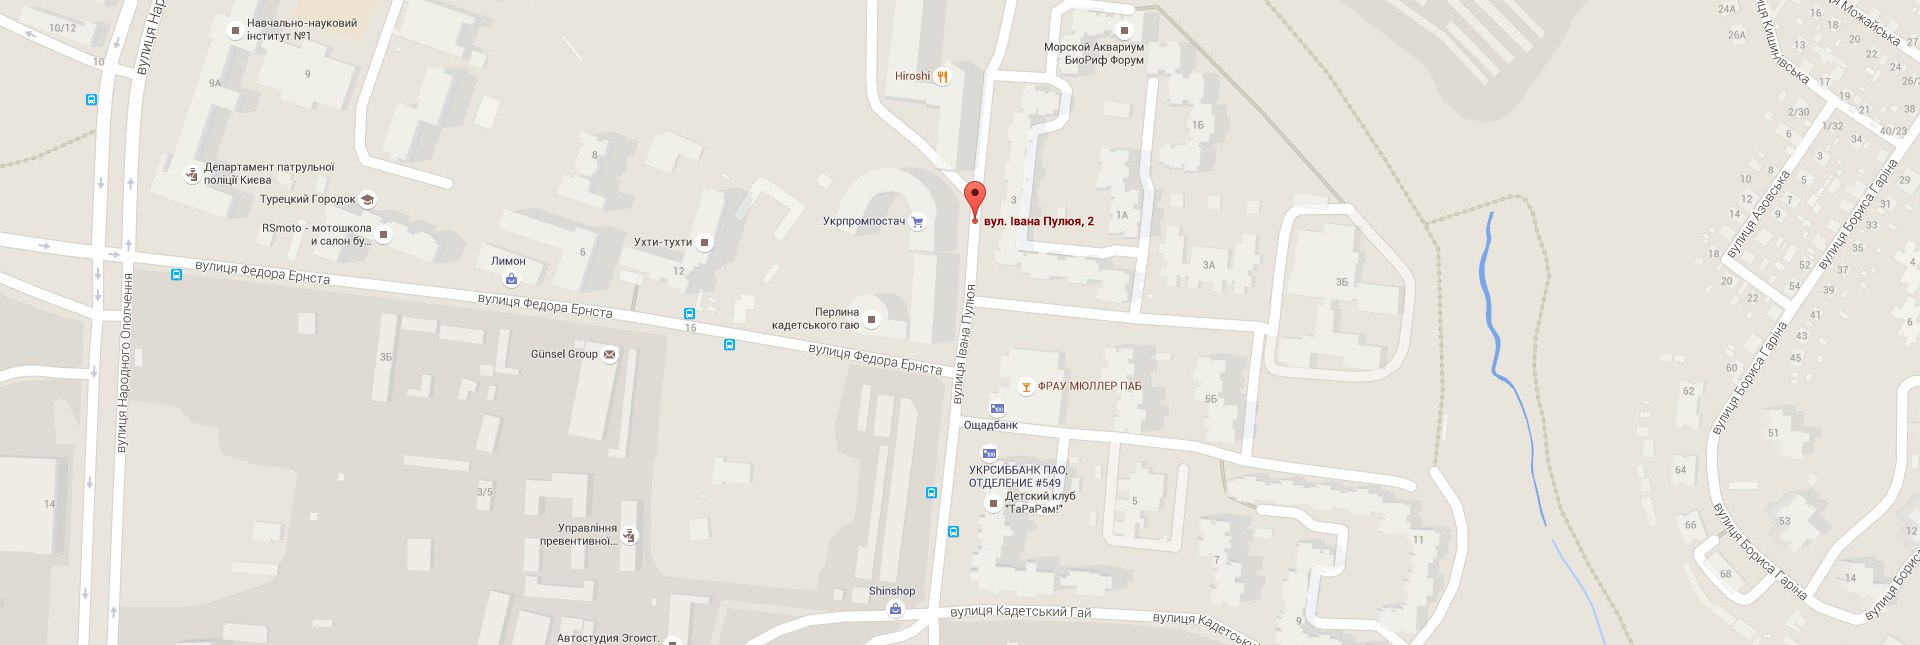
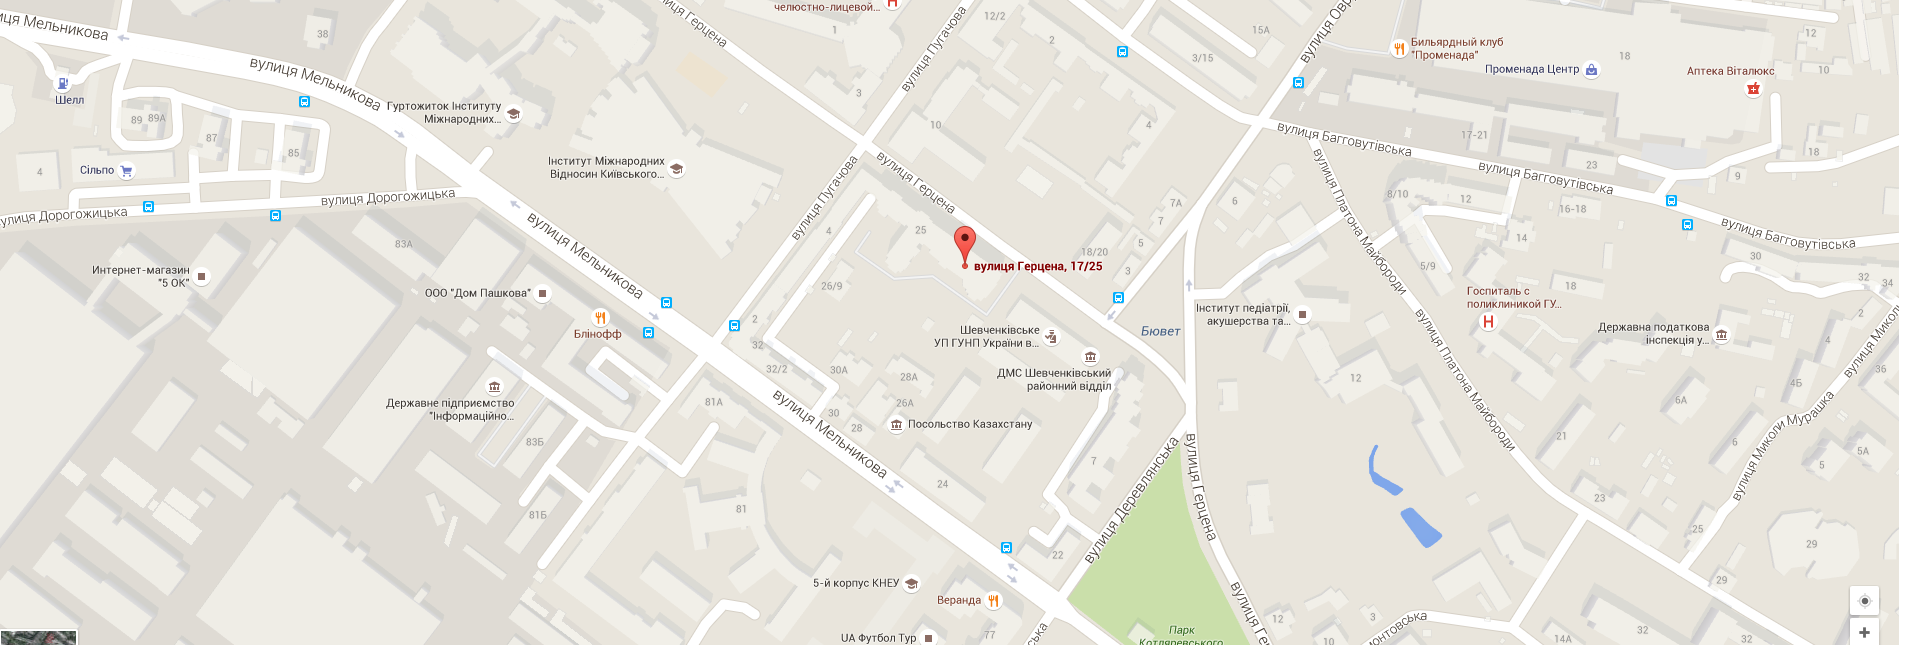
.

diff --git a/frontend/web/css/style.css b/frontend/web/css/style.css
@@ -672,12 +672,21 @@ header h2 {
   height: 11px;
   background-position: -10px -10px;
 }
+.about-us .sprite-contact_in {
+  width: 16px;
+  height: 19px;
+  background-image: url(/img/insta.png);
+  top: 3px;
+  position: relative;
+}
 .about-us .sprite-contact_fb {
   width: 9px;
   height: 17px;
   background-position: -46px -10px;
   margin-right: 19px;
   margin-left: 3px;
+  top: 5px;
+  position: relative;
 }
 .about-us .sprite-contact_vk {
   width: 16px;

diff --git a/common/modules/about/frontend/views/default/index.php b/common/modules/about/frontend/views/default/index.php
@@ -3,6 +3,7 @@
 /* @var $model common\modules\about\common\models\About */
 
 use yii\helpers\Html;
+$this->title = 'О нас';
 ?>
 
 <section class="about-description">
@@ -27,7 +28,7 @@ use yii\helpers\Html;
                                 <li><i class="sprite sprite-contact_email"></i><a href="mailto:<?= $model->email ?>" target="_top"><?= $model->email ?></a></li>
                                 <li><i class="sprite sprite-contact_vk"></i><a href="https://new.vk.com/<?= $model->vk ?>" target="_blank"><?= $model->vk ?></a></li>
                                 <li><i class="sprite sprite-contact_fb"></i><a href="https://www.facebook.com/<?= $model->facebook ?>" target="_blank"><?= $model->facebook ?></a></li>
-                                <?= (!empty($model->instagram)? '<li><i class="sprite sprite-contact_fb"></i><a href="https://www.instagram.com/'.$model->instagram.'" target="_blank">'.$model->instagram.'</li></a>' : ''); ?>
+                                <?= (!empty($model->instagram)? '<li><i class="sprite sprite-contact_in"></i><a href="https://www.instagram.com/'.$model->instagram.'" target="_blank">'.$model->instagram.'</li></a>' : ''); ?>
                             </ul>
                         </div>
                     </div>
@@ -43,7 +44,7 @@ use yii\helpers\Html;
                                 <li><i class="sprite sprite-contact_email"></i><a href="mailto:<?= $model->email ?>" target="_top"><?= $model->email ?></a></li>
                                 <li><i class="sprite sprite-contact_vk"></i><a href="https://new.vk.com/<?= $model->vk ?>" target="_blank"><?= $model->vk ?></a></li>
                                 <li><i class="sprite sprite-contact_fb"></i><a href="https://www.facebook.com/<?= $model->facebook ?>" target="_blank"><?= $model->facebook ?></a></li>
-                                <?= (!empty($model->instagram)? '<li><i class="sprite sprite-contact_fb"></i><a href="https://www.instagram.com/'.$model->instagram.'" target="_blank">'.$model->instagram.'</li></a>' : ''); ?>
+                                <?= (!empty($model->instagram)? '<li><i class="sprite sprite-contact_in"></i><a href="https://www.instagram.com/'.$model->instagram.'" target="_blank">'.$model->instagram.'</li></a>' : ''); ?>
                             </ul>
                         </div>
                         <div class="col-md-4 vladimir-description">

diff --git a/frontend/views/blog/default/view.php b/frontend/views/blog/default/view.php
@@ -1,14 +1,12 @@
 <?php
-/*
- * $this yii\web\View
- * $model developerav\blog\common\models\Posts
- */
+/* @var $this yii\web\View */
+/* @var $model developerav\blog\common\models\Posts */
 
 $this->title = $model['title'];
 
 use yii\helpers\Html;
 ?>
-
+<div id="fb-root"></div>
 <section class="blog-recover">
     <div class="container">
         <div class="blog-description">
@@ -18,7 +16,30 @@ use yii\helpers\Html;
                 <img style="display: inline-block;" src="/upload/blog/<?= $model['img'] ?>" alt="">
             <?php endif; ?>
             <h3><?= $model['title'] ?></h3>
-        <?= $model['text'] ?>
+            <?= $model['text'] ?>
+
+            <?php
+            $this->registerJsFile('//vk.com/js/api/openapi.js?122', ['position' => \yii\web\View::POS_HEAD]);
+            $this->registerJs('
+                    (function(d, s, id) {
+  var js, fjs = d.getElementsByTagName(s)[0];
+  if (d.getElementById(id)) return;
+  js = d.createElement(s); js.id = id;
+  js.src = "//connect.facebook.net/ru_RU/sdk.js#xfbml=1&version=v2.6";
+  fjs.parentNode.insertBefore(js, fjs);
+}(document, "script", "facebook-jssdk"));
+VK.init({apiId: '.\Yii::$app->params['apiId'].', onlyWidgets: true});
+                        ', \yii\web\View::POS_HEAD);
+            ?>
+            <script type="text/javascript">
+                VK.Widgets.Like("vk_like", {type: "button"});
+            </script>
+            <div class="pull-right">
+                <div class="fb-like pull-left" data-href="<?= \yii\helpers\Url::to('', true) ?>" data-layout="button_count" data-action="like" data-show-faces="true" data-share="true"></div>
+                <div class="pull-left" style="width: 20px; height: 1px;"></div>
+                <div style="display: inline-block;"><div class="pull-left" id="vk_like"></div></div>
+            </div>
+            <div class="clearfix"></div>
         </div>
         <?php
         if ($models[0] != null || $models[1] != null):

diff --git a/frontend/controllers/SiteController.php b/frontend/controllers/SiteController.php
@@ -4,6 +4,7 @@ namespace frontend\controllers;
 
 use yii\web\Controller;
 use common\models\Services;
+use yii\web\NotFoundHttpException;
 
 /**
  * Site controller
@@ -47,7 +48,11 @@ class SiteController extends Controller {
      * @return mixed
      */
     public function actionServiceInner($id) {
-        $model = Services::find()->with('servicesProperty')->asArray()->where($id)->one();
+        $model = Services::find()->with('servicesProperty')->asArray()->where(['id' => $id])->one();
+        if($model == NULL)
+        {
+            throw new NotFoundHttpException;
+        }
         return $this->render('service-inner', ['model' => $model]);
     }
 

diff --git a/common/modules/about/frontend/views/default/contact.php b/common/modules/about/frontend/views/default/contact.php
@@ -46,10 +46,10 @@ use app\components\ContactWidget;
     <div style="position: absolute; padding: 30px; top: 20%; left: 30%; background-color: #F1F1F1;">
         <h3 style="font-weight: bold; margin-bottom: 30px;">Киев</h3>
         <h4 style="color: #A7A7A7;">
-        ул. Ивана Пуля 2,<br/>
-        Киев, 84936<br/>
-        3 этаж, 10 офис
+        м. Лукьяновка,<br/>
+        ул. Герцена,<br/>
+        дом 17-25,<br/>
+        3 этаж, офис 95
         </h4>
-        <h2 style="color: #76B55D;">407.296.4100</h2>
     </div>
 </section>

diff --git a/frontend/config/main.php b/frontend/config/main.php
@@ -31,6 +31,13 @@ return [
             'enablePrettyUrl' => true,
             'showScriptName' => false,
             'rules' => [
+                'about' => 'about/default/index',
+                'services' => 'site/services',
+                'services/<id:\d+>' => 'site/service-inner',
+                'clients' => 'clients/default/index',
+                'blog' => 'blog/default/index',
+                'blog/<id:\d+>' => 'blog/default/view',
+                'contact' => 'about/default/contact',
             ],
         ],
     ],

diff --git a/frontend/views/layouts/home.php b/frontend/views/layouts/home.php
@@ -16,7 +16,7 @@ AppAsset::register($this);
         <meta charset="utf-8">
         <meta http-equiv="X-UA-Compatible" content="IE=edge,chrome=1">
         <?= Html::csrfMetaTags() ?>
-        <title><?= Html::encode($this->title) ?></title>
+        <title><?= Html::encode((empty($this->title)? Yii::$app->name : $this->title)) ?></title>
         <meta name="description" content="">
         <meta name="viewport" content="width=device-width, initial-scale=1">
         <link rel="shortcut icon" href="/favicon.png" type="image/png">

diff --git a/frontend/views/layouts/main.php b/frontend/views/layouts/main.php
@@ -16,7 +16,7 @@ AppAsset::register($this);
         <meta charset="utf-8">
         <meta http-equiv="X-UA-Compatible" content="IE=edge,chrome=1">
         <?= Html::csrfMetaTags() ?>
-        <title><?= Html::encode($this->title) ?></title>
+        <title><?= Html::encode((empty($this->title)? Yii::$app->name : $this->title)) ?></title>
         <meta name="description" content="">
         <meta name="viewport" content="width=device-width, initial-scale=1">
         <link rel="shortcut icon" href="/favicon.png" type="image/png">

diff --git a/common/modules/clients/frontend/views/default/index.php b/common/modules/clients/frontend/views/default/index.php
@@ -1,6 +1,10 @@
 <?php
+/* @var $this yii\web\View */
+
 use developerav\comments\components\Comments;
 use common\modules\clients\frontend\components\Clients;
+
+$this->title = 'Клиенты';
 ?>
 
 <?= Clients::widget() ?>

diff --git a/frontend/config/params.php b/frontend/config/params.php
@@ -6,4 +6,5 @@ return [
     'aboutPath' => 'upload/about/',
     'mailchimpApiKay' => '28d9452210b5b8e275872f6e766b4d7f-us13',
     'mailchimpListId' => 'e0173213cc',
+    'apiId' => '5542925',
 ];

diff --git a/frontend/views/site/service-inner.php b/frontend/views/site/service-inner.php
@@ -1,7 +1,7 @@
 <?php
 /* @var $this yii\web\View */
 
-$this->title = 'My Yii Application';
+$this->title = 'Услуги - '.$model['title'];
 
 use yii\helpers\Html;
 ?>

diff --git a/frontend/views/site/index.php b/frontend/views/site/index.php
@@ -4,7 +4,7 @@
 
 use app\components\SliderWidget;
 
-$this->title = 'My Yii Application';
+$this->title = '';
 ?>
 
             <?= SliderWidget::widget() ?>
